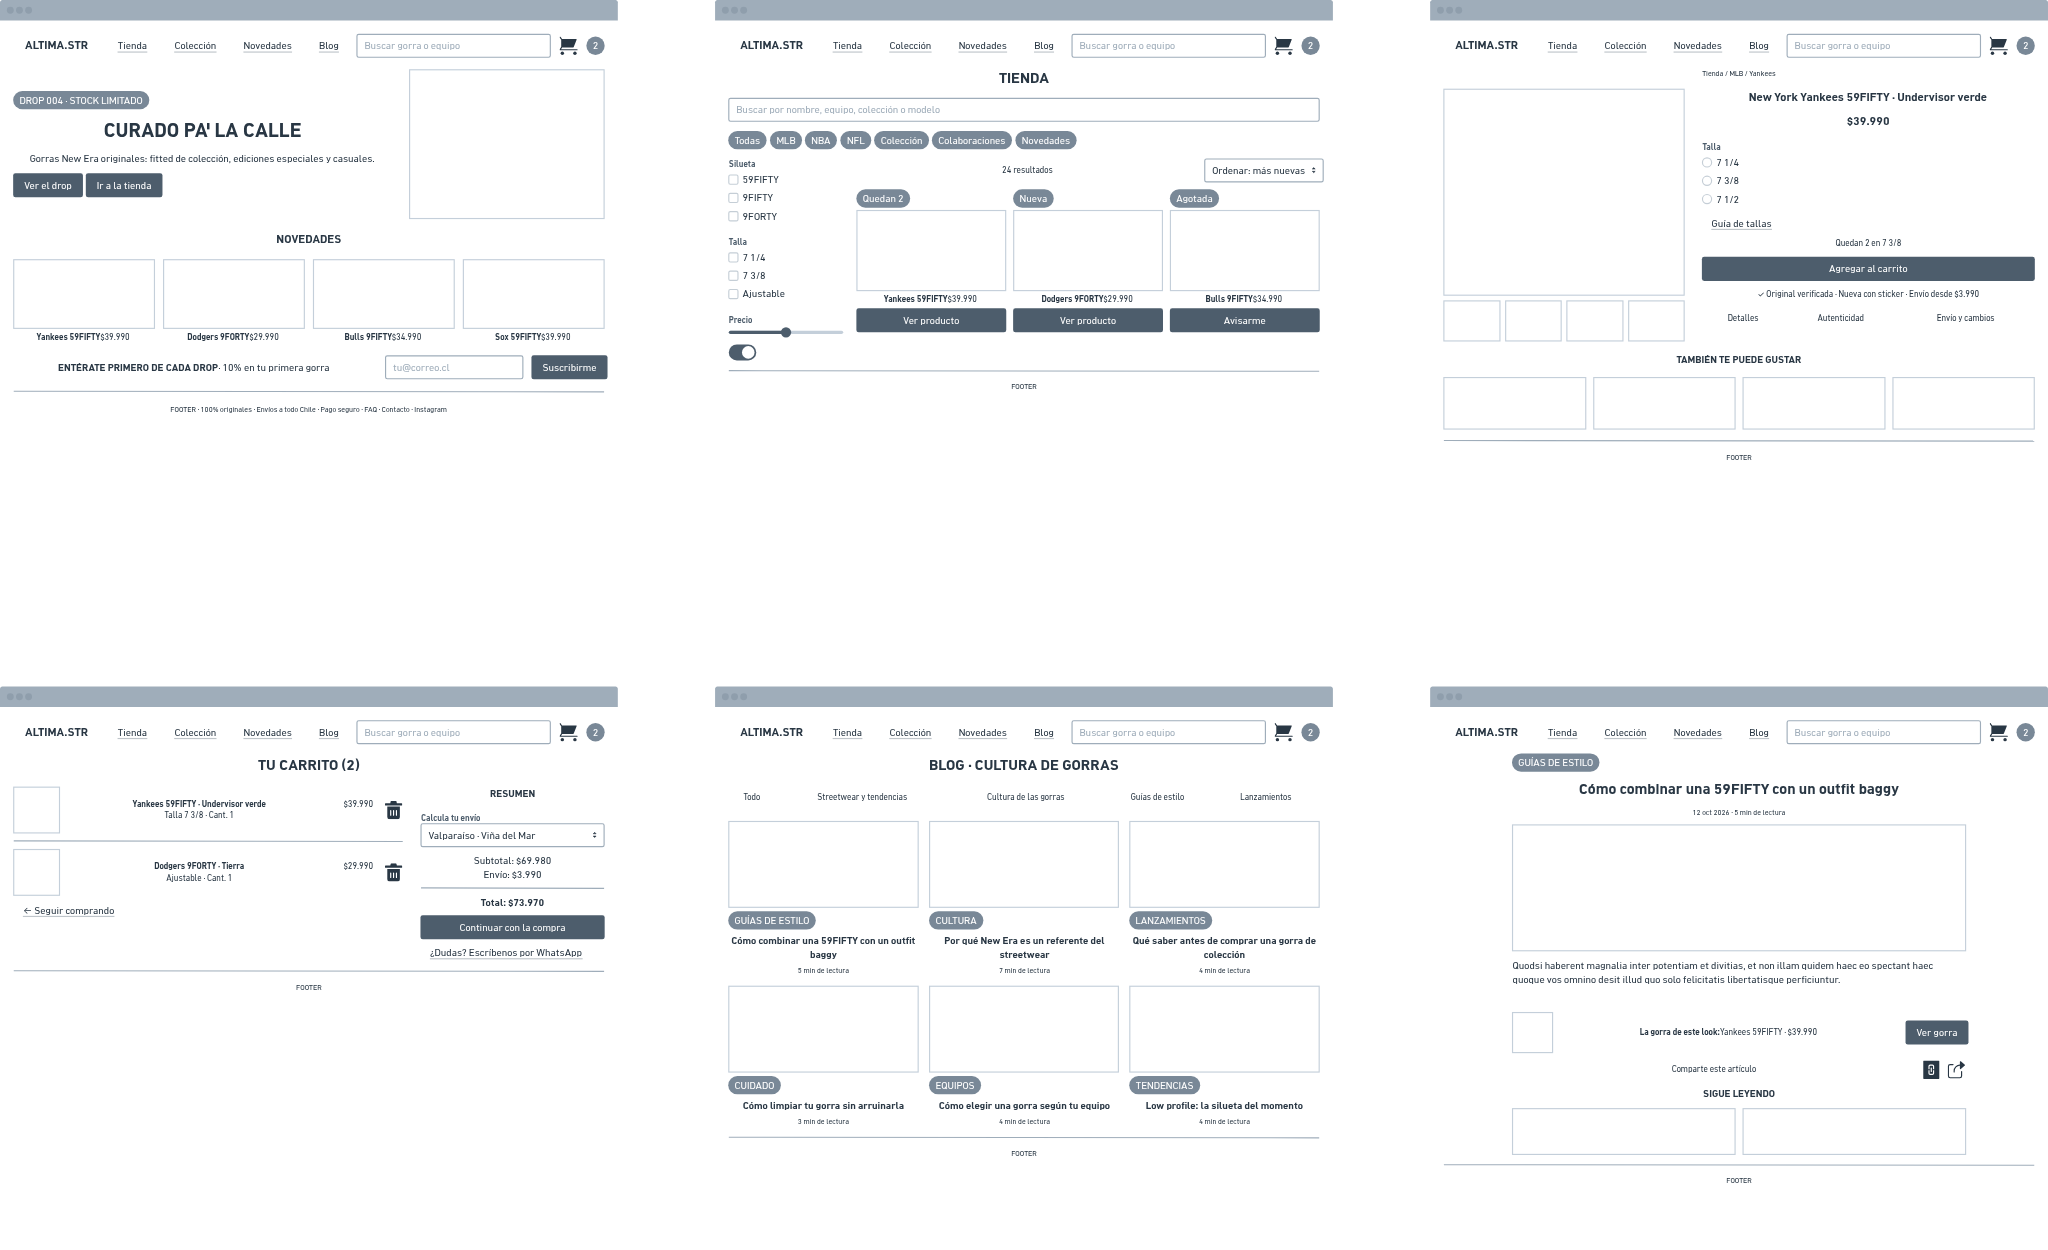
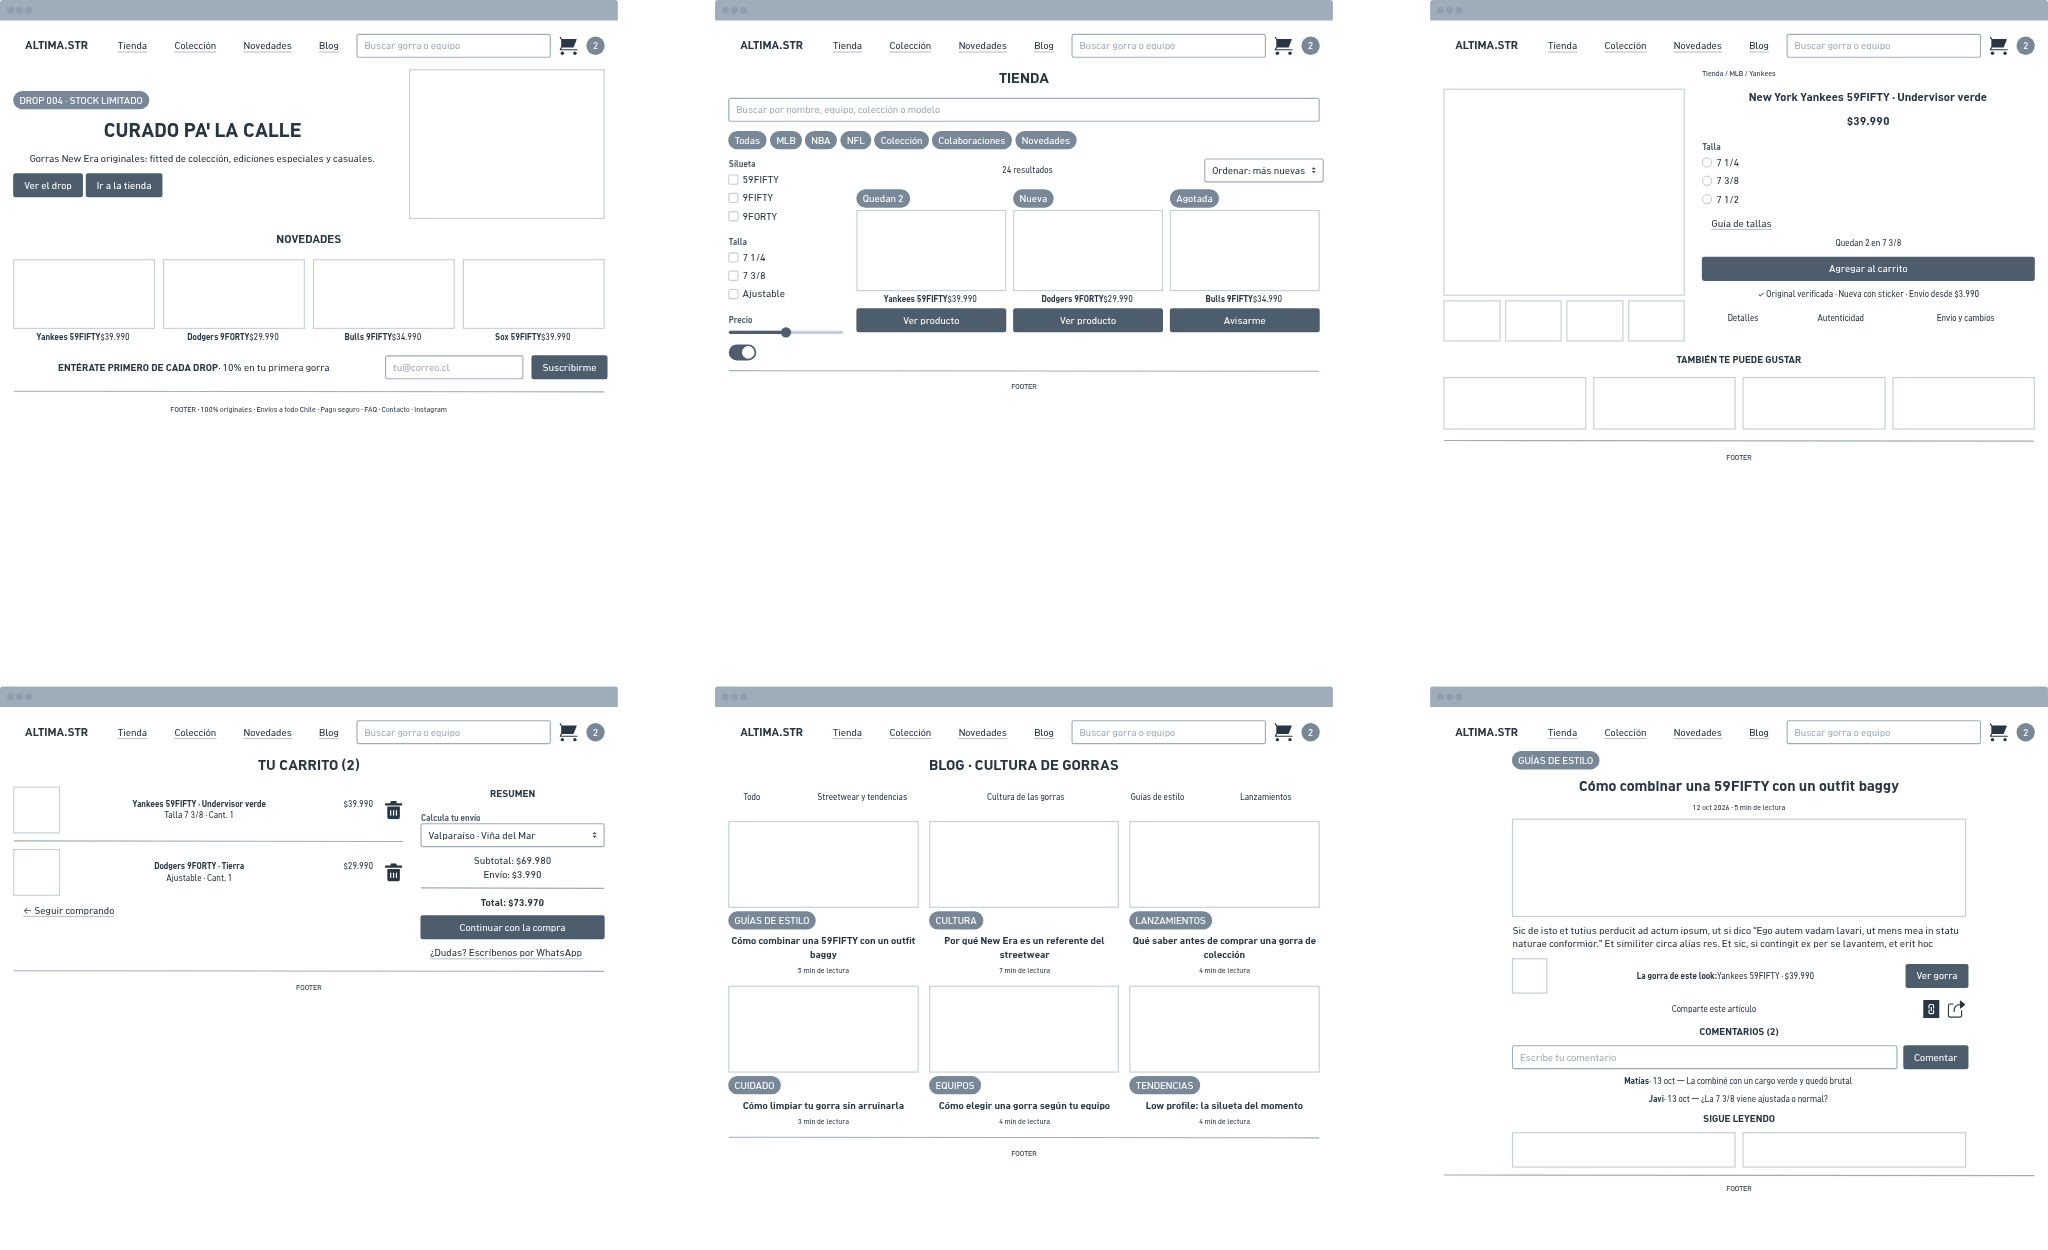
docs: agrega comentarios del blog al artículo (funcionalidad base)
Claude-Session: https://claude.ai/code/session_01KV3iPzykXuuoYLPCu3RLvJ

Changed region(s): [[0.7188, 0.7176, 0.9688, 0.9672], [0.7812, 0.624, 0.9375, 0.6552], [0.75, 0.5928, 0.7812, 0.624]]

diff --git a/docs/03-funcionalidades.md b/docs/03-funcionalidades.md
@@ -13,9 +13,9 @@
 | Proto-persona | Objetivo | Funcionalidad | Tipo | Prioridad |
 |---|---|---|---|---|
 | Carlos, 25 años | Recibir novedades y ofertas de la tienda | El usuario debe poder dejar sus datos para recibir novedades, lanzamientos y descuentos de altima.str. | Base (landing) | Deseable |
-| Carlos, 25 años | Descubrir tendencias y conocer más sobre las gorras | El usuario debe poder navegar los artículos por categoría, como tendencias streetwear, colecciones y novedades de New Era. | Base (blog) | Futuro |
-| Carlos, 25 años | Compartir opiniones y experiencias | El usuario debe poder comentar un artículo y compartir su opinión sobre el contenido publicado. | Base (blog) | Futuro |
-| Carlos, 25 años | Recomendar contenido a sus amigos | El usuario debe poder compartir un artículo en redes sociales o mediante un enlace. | Base (blog) | Futuro |
+| Carlos, 25 años | Descubrir tendencias y conocer más sobre las gorras | El usuario debe poder navegar los artículos por categoría, como tendencias streetwear, colecciones y novedades de New Era. | Base (blog) | Deseable |
+| Carlos, 25 años | Compartir opiniones y experiencias | El usuario debe poder comentar un artículo y compartir su opinión sobre el contenido publicado. | Base (blog) | Deseable |
+| Carlos, 25 años | Recomendar contenido a sus amigos | El usuario debe poder compartir un artículo en redes sociales o mediante un enlace. | Base (blog) | Deseable |
 | Carlos, 25 años | Encontrar rápidamente un modelo específico | El usuario debe poder buscar productos por nombre, equipo deportivo, colección o modelo. | Base (tienda) | Imprescindible |
 | Carlos, 25 años | Comparar modelos según sus preferencias | El usuario debe poder filtrar productos por precio, equipo, estilo, tipo de gorra y disponibilidad. | Base (tienda) | Imprescindible |
 | Carlos, 25 años | Revisar un producto y realizar una compra | El usuario debe poder ver el detalle de un producto, elegir las opciones disponibles y agregarlo al carrito. | Base (tienda) | Imprescindible |

diff --git a/docs/10-spec-desarrollo.md b/docs/10-spec-desarrollo.md
@@ -134,6 +134,7 @@ Todas las páginas tienen la misma base: `<header>` con la navbar, un `<main>` y
   <article> h1, fecha, imagen y texto del artículo
     <section> "La gorra de este look" (producto relacionado)
     <section> compartir
+    <section> comentarios (formulario + lista)
   </article>
   <section> "Sigue leyendo"
 </main>
@@ -205,6 +206,7 @@ Todo va en un solo archivo, `css/styles.css`. Las fuentes (Alfa Slab One e Inter
 - [ ] La ficha de producto muestra fotos, precio, selector de talla, stock, sello "Original verificada", costo de envío y botón "Agregar al carrito".
 - [ ] El carrito muestra subtotal, envío y total antes de comprar.
 - [ ] El artículo muestra la gorra del look con un botón que lleva a la ficha de producto.
+- [ ] El blog tiene chips de categoría y el artículo tiene botones para compartir y una sección de comentarios (formulario visual, sin guardar comentarios en esta versión).
 
 **Diseño**
 - [ ] Todos los colores del CSS salen de las variables de `:root`, con los valores de `DESIGN.md`.

diff --git a/docs/09-spec-diseno.md b/docs/09-spec-diseno.md
@@ -90,8 +90,9 @@ Componentes, de arriba hacia abajo:
 3. Texto del artículo en body-md, con un h2 "El look: hoodie oversize, cargo y sneakers retro".
 4. Bloque "La gorra de este look": foto, "Yankees 59FIFTY · Undervisor verde", $39.990 y button-primary "Ver gorra".
 5. "Comparte este artículo" con íconos de copiar link e Instagram.
-6. h2 "Sigue leyendo" y 2 card-article.
-7. footer.
+6. h2 "Comentarios (2)": input-field "Escribe tu comentario", button-primary "Comentar" y 2 comentarios de ejemplo con nombre, fecha y texto (Matías: "La combiné con un cargo verde y quedó brutal"; Javi: "¿La 7 3/8 viene ajustada o normal?").
+7. h2 "Sigue leyendo" y 2 card-article.
+8. footer.
 ```
 
 ### Versión mobile (para cada pantalla)
